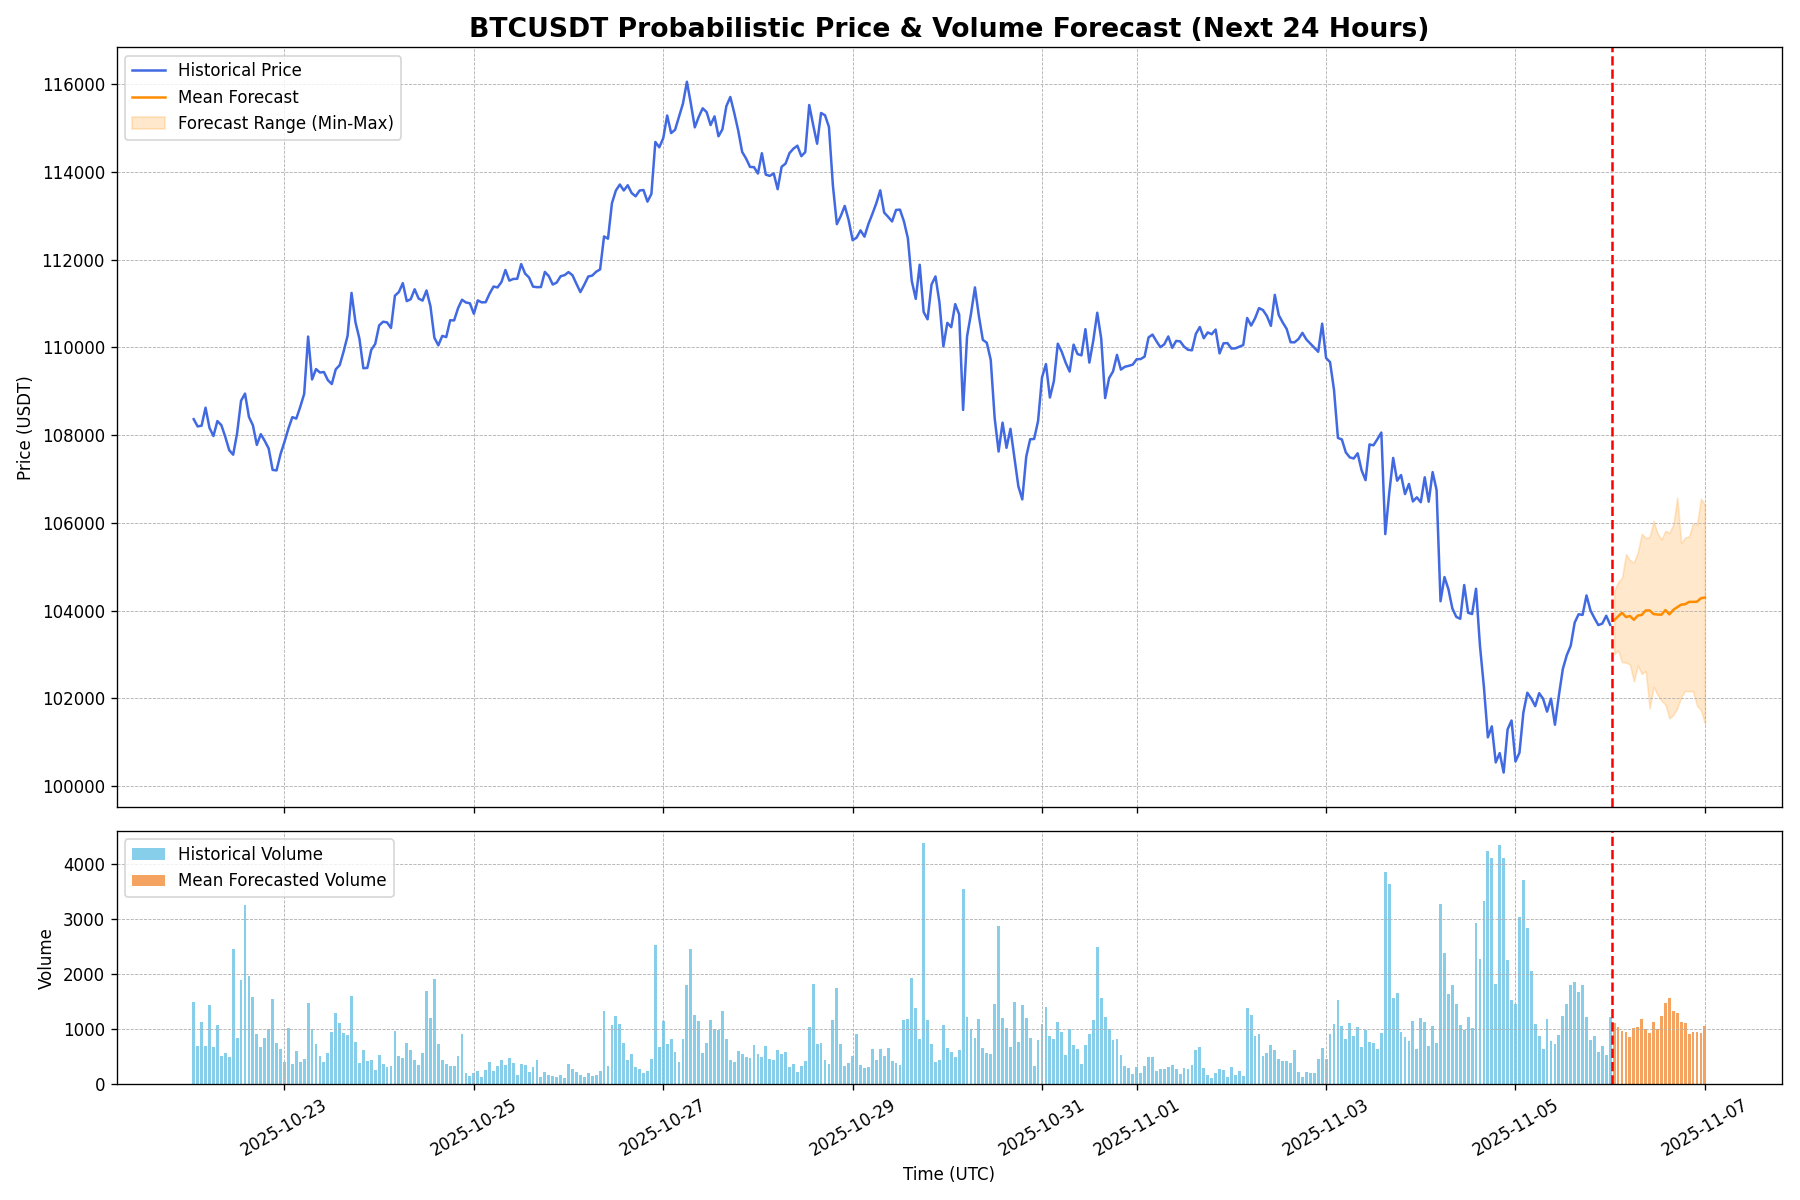
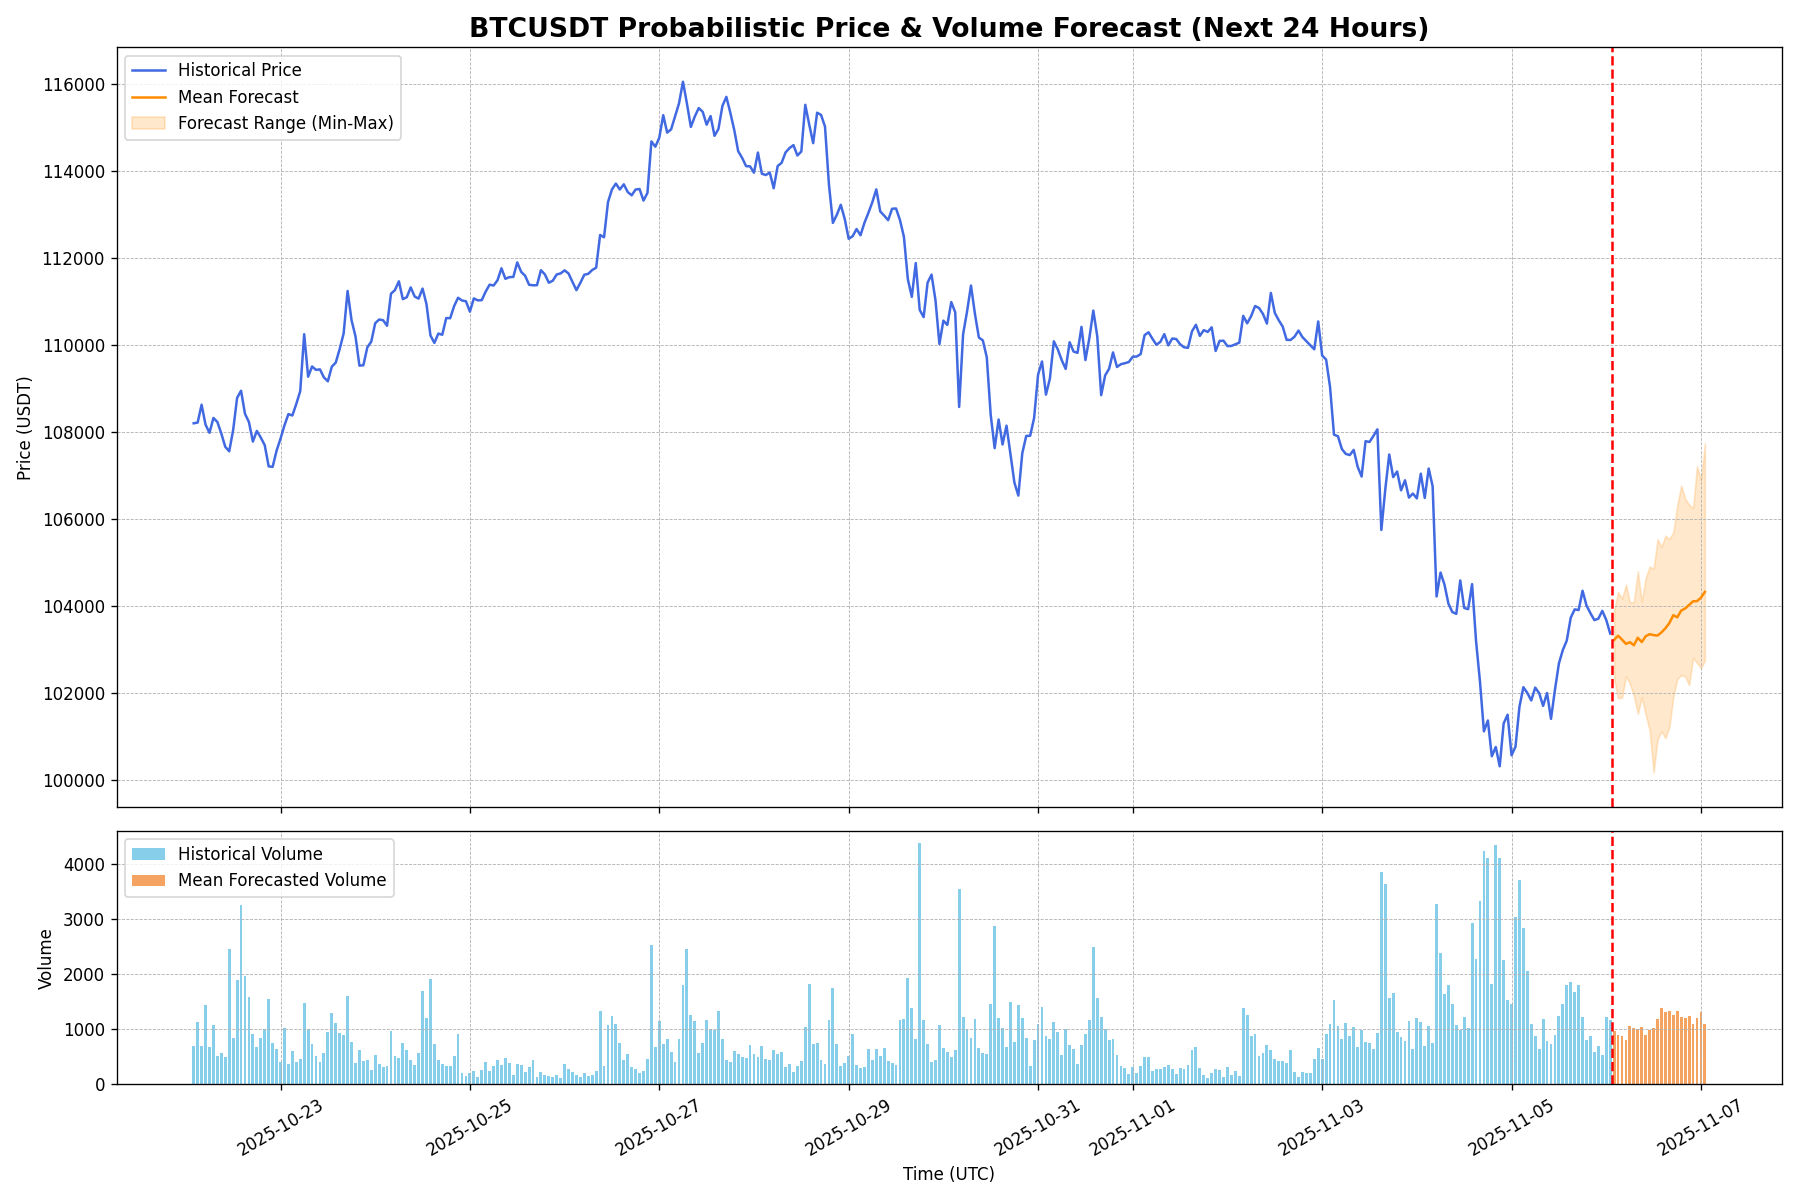
Auto-update forecast for 2025-11-06 02:01 UTC

diff --git a/index.html b/index.html
@@ -22,19 +22,19 @@
         <section id="live-dashboard">
             <h2>Live BTC/USDT Forecast Dashboard</h2>
             <div class="metadata">
-                <span>Last Updated (UTC): <strong id="update-time">2025-11-06 01:01:08</strong></span>
+                <span>Last Updated (UTC): <strong id="update-time">2025-11-06 02:01:08</strong></span>
                 <span>Data Source: Binance | Interval: 1-Hour</span>
             </div>
 
             <div class="metrics-container">
                 <div class="metric-card">
                     <h3>Upside Probability (Next 24h)</h3>
-                    <p class="metric-value" id="upside-prob">66.7%</p>
+                    <p class="metric-value" id="upside-prob">76.7%</p>
                     <div class="metric-desc">The model's confidence that the price in 24 hours will be higher than the last known price.</div>
                 </div>
                 <div class="metric-card">
                     <h3>Volatility Amplification (Next 24h)</h3>
-                    <p class="metric-value" id="vol-amp-prob">63.3%</p>
+                    <p class="metric-value" id="vol-amp-prob">80.0%</p>
                     <div class="metric-desc">The probability that predicted volatility over the next 24h will exceed recent historical volatility.</div>
                 </div>
             </div>
